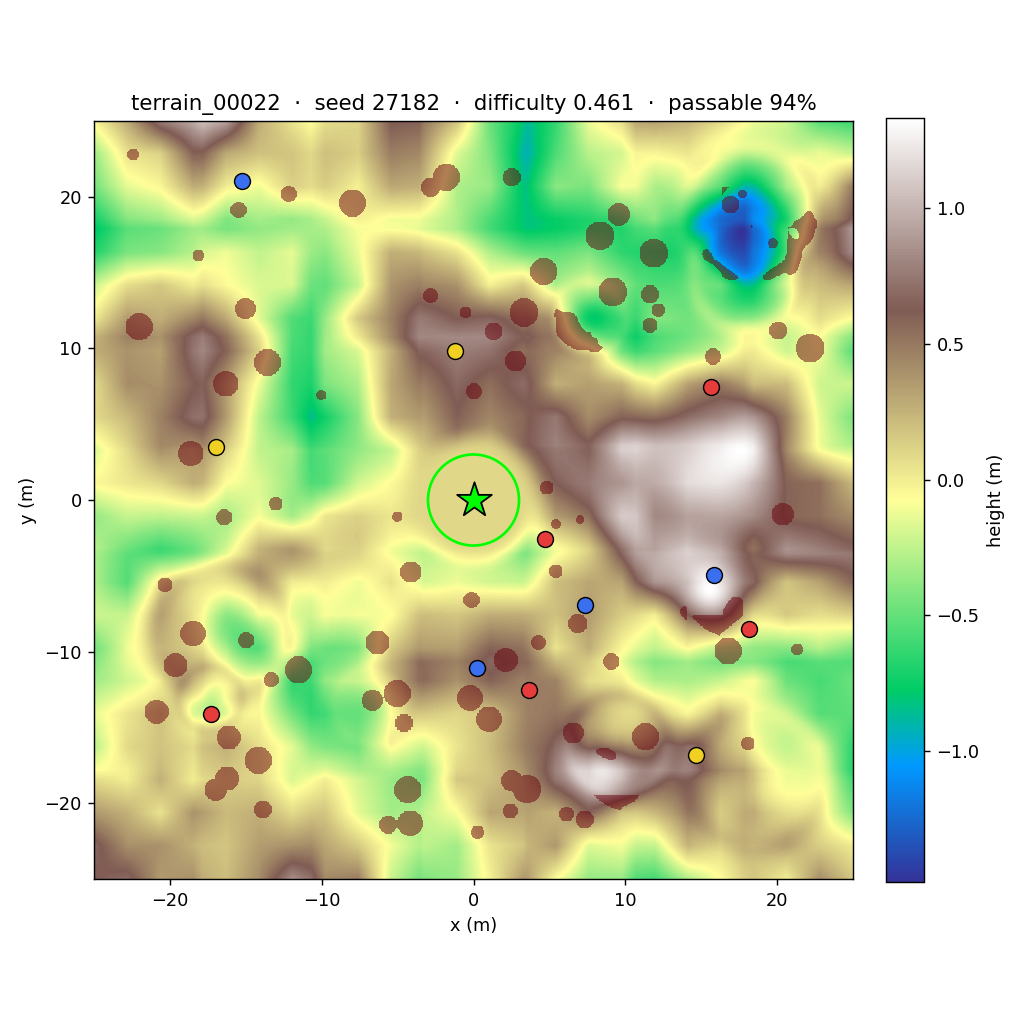
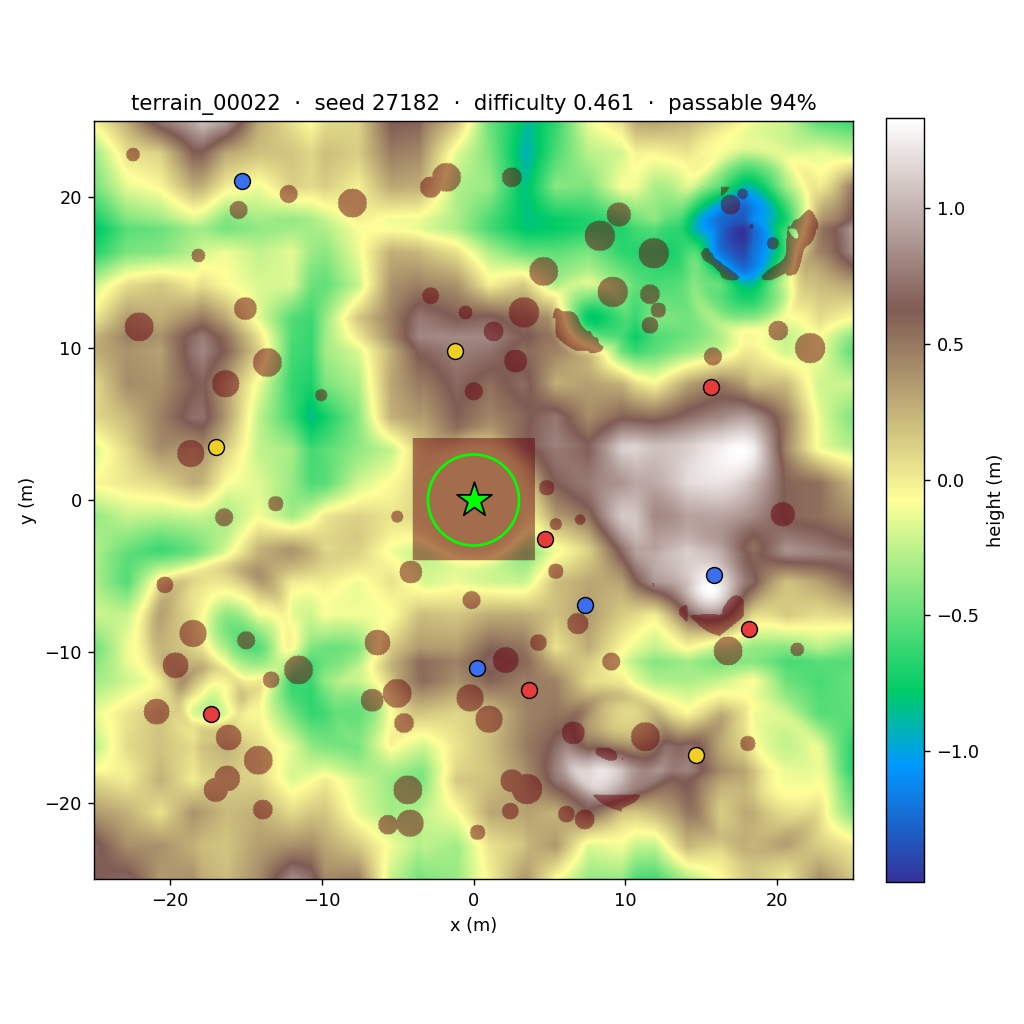
fix(isaac_sim): obstacle_grid 에 베이스캠프 충돌체 마킹
build_obstacle_grid 가 경사·바위만 찍고 베이스캠프를 빠뜨려, basecamp_dome.usd 에 8x8x8 m 충돌 Cube 가 있는데도 obstacle_grid 는 자유공간으로 둬 로버가 통과 경로를 계획했다. _stamp_basecamp 추가 — 충돌 Cube 와 동기화된 8x8 m 정사각 풋프린트 마킹. terrain_00022 obstacle_grid 재생성.

Changed region(s): [[0.375, 0.4062, 0.5312, 0.5625], [0.75, 0.2188, 0.7812, 0.25], [0.625, 0.2812, 0.6562, 0.3125]]

diff --git a/isaac_sim/scripts/mars_terrain_generator_v2.py b/isaac_sim/scripts/mars_terrain_generator_v2.py
@@ -93,6 +93,10 @@ CFG = {
     "mineral_slope_deg": 18.0,
     "basecamp_center": (0.0, 0.0),  # I1 Tier 1 — (0,0) 고정
     "basecamp_radius": 3.0,
+    # basecamp_dome.usd 내부 정적 충돌 Cube 한 변 (8×8×8 m, 중심 (0,0)).
+    # 시각 메시(visual_footprint 3×3 m)보다 크다 — 로버가 실제로 막히는 건
+    # 이 Cube. obstacle_grid 는 이 값과 동기화할 것 (자산 변경 시 같이 수정).
+    "basecamp_collision_size_m": 8.0,
     "mesh_stride": 5,             # USD 시각 메시 다운샘플 (npy는 풀해상도 유지)
     # ─ 맵경계 낙하 방지 — 50 m 아레나 둘레 정적 충돌벽 ─
     "boundary_wall_thickness_m": 0.5,      # 벽 두께
@@ -242,18 +246,44 @@ def compute_slope_deg(hm: np.ndarray) -> np.ndarray:
     return np.degrees(np.arctan(np.sqrt(dz_dx ** 2 + dz_dy ** 2))).astype(np.float32)
 
 
+def _stamp_disc(obstacle, cx, cy, radius_m) -> None:
+    """world (cx,cy) 중심, 반경 radius_m 원을 obstacle(1)로 OR-in 한다."""
+    i, j = world_to_idx(cx, cy)
+    cell_r = max(1, int(math.ceil(radius_m / RESOLUTION_M)))
+    i0, i1 = max(0, i - cell_r), min(GRID, i + cell_r + 1)
+    j0, j1 = max(0, j - cell_r), min(GRID, j + cell_r + 1)
+    ii, jj = np.ogrid[i0:i1, j0:j1]
+    mask = (ii - i) ** 2 + (jj - j) ** 2 <= cell_r ** 2
+    obstacle[i0:i1, j0:j1] = np.maximum(obstacle[i0:i1, j0:j1],
+                                        mask.astype(np.int8))
+
+
+def _stamp_basecamp(obstacle) -> None:
+    """베이스캠프 충돌체를 obstacle(1)로 마킹한다.
+
+    basecamp_dome.usd 는 중심에 8×8×8 m 정적 충돌 Cube 를 갖는다 — 시각
+    메시(visual_footprint 3×3 m)보다 크고, 로버가 실제로 막히는 건 이 Cube다.
+    그런데 heightmap 은 _flatten_basecamp 로 평탄화돼 경사 기준에 안 걸리고
+    바위도 베이스캠프 keepout 밖에만 놓이므로, 명시적으로 안 찍으면
+    obstacle_grid 가 베이스캠프를 자유공간으로 본다 — 로버가 통과 경로를
+    계획하다 실제 씬에선 충돌. 축 정렬 박스라 정사각 풋프린트로 찍는다.
+    """
+    bcx, bcy = CFG["basecamp_center"]
+    half = 0.5 * CFG["basecamp_collision_size_m"]
+    i0, j0 = world_to_idx(bcx - half, bcy - half)
+    i1, j1 = world_to_idx(bcx + half, bcy + half)
+    obstacle[i0:i1 + 1, j0:j1 + 1] = 1
+
+
 def build_obstacle_grid(slope_deg, rocks) -> np.ndarray:
-    """I1: shape (1000,1000), dtype int8, 0=safe 1=obstacle."""
+    """I1: shape (1000,1000), dtype int8, 0=safe 1=obstacle.
+
+    obstacle = (1) 경사 임계 초과 셀  (2) 바위 풋프린트  (3) 베이스캠프 충돌체.
+    """
     obstacle = (slope_deg > CFG["obstacle_slope_deg"]).astype(np.int8)
     for rk in rocks:
-        i, j = world_to_idx(rk["x"], rk["y"])
-        cell_r = max(1, int(math.ceil(rk["radius"] / RESOLUTION_M)))
-        i0, i1 = max(0, i - cell_r), min(GRID, i + cell_r + 1)
-        j0, j1 = max(0, j - cell_r), min(GRID, j + cell_r + 1)
-        ii, jj = np.ogrid[i0:i1, j0:j1]
-        mask = (ii - i) ** 2 + (jj - j) ** 2 <= cell_r ** 2
-        obstacle[i0:i1, j0:j1] = np.maximum(obstacle[i0:i1, j0:j1],
-                                            mask.astype(np.int8))
+        _stamp_disc(obstacle, rk["x"], rk["y"], rk["radius"])
+    _stamp_basecamp(obstacle)
     return obstacle.astype(np.int8)
 
 